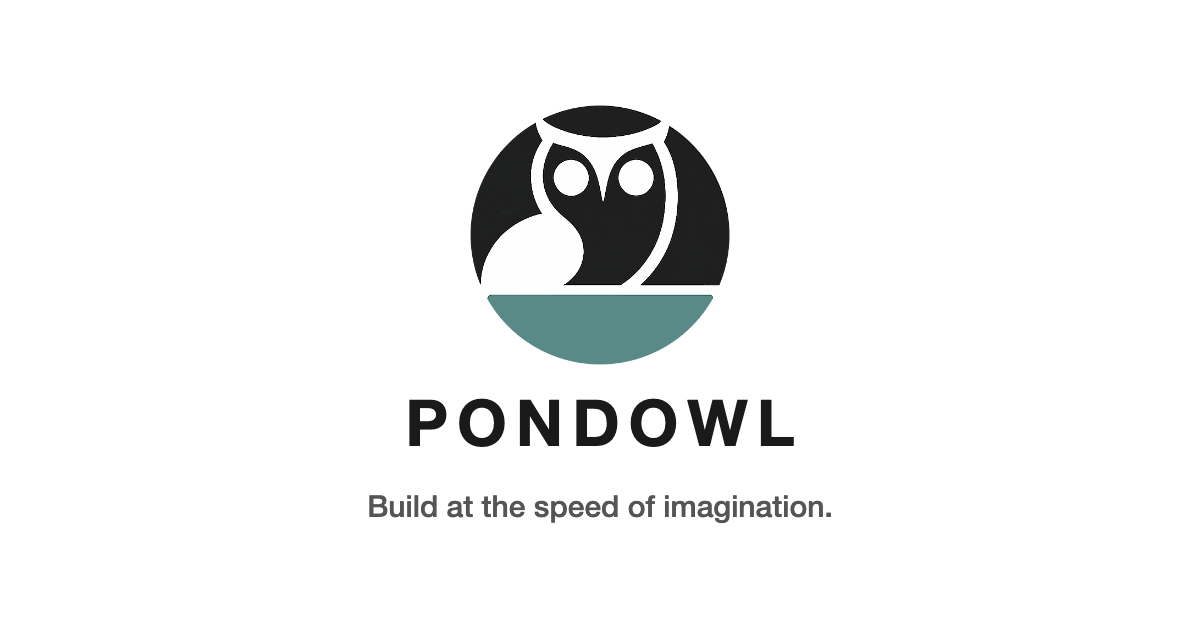
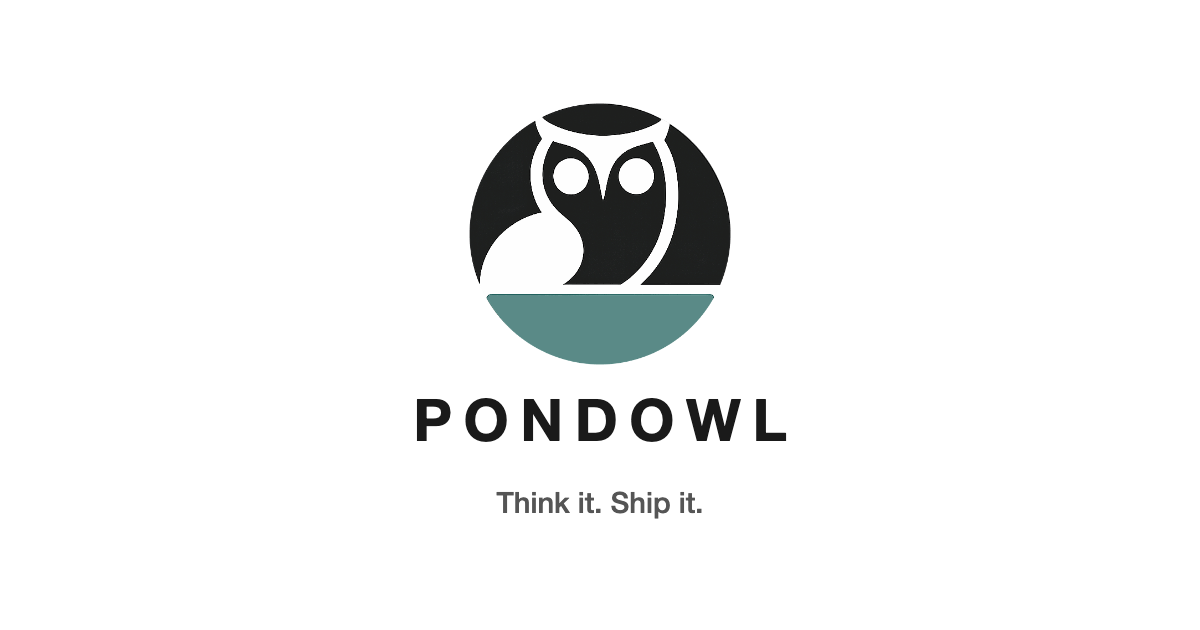
CORP-7 キャッチコピーの刷新とアクセントカラーの追加 (#5)
- ヒーローのミッションを「Think it. Ship it.」と名前の由来の2行に差し替え
- ABOUTの見出し・本文・カードの文言を整理
- OGP画像のキャッチコピーを「Think it. Ship it.」に差し替え
- ロゴの池の色をアクセントカラーとしてキャッチコピー上の線とリンクに適用
- リンクの下線をマウスオーバー時のみ表示
- セクションラベルの効いていないCSS指定を整理

diff --git a/style.css b/style.css
@@ -4,6 +4,8 @@
   --color-text-secondary: #555555;
   --color-text-tertiary: #767676;
   --color-border-tertiary: #e6e4e0;
+  --color-accent: #598a87;
+  --color-accent-strong: #44706d;
   --border-radius-lg: 12px;
 }
 * { box-sizing: border-box; margin: 0; padding: 0; }
@@ -15,18 +17,20 @@ a { color: inherit; }
 .hero { text-align: center; padding: 96px 48px 88px; }
 .hero-logo { width: 240px; height: 240px; margin: 0 auto 20px; display: block; }
 .hero-name { font-size: 52px; font-weight: 600; letter-spacing: 0.14em; line-height: 1.2; margin-bottom: 64px; }
-.hero-label { font-size: 12px; font-weight: 400; color: var(--color-text-secondary); margin-bottom: 8px; letter-spacing: 0.1em; }
-.hero-mission { font-size: 28px; font-weight: 500; color: var(--color-text-primary); margin-bottom: 16px; line-height: 1.4; }
+.hero-meaning { font-size: 18px; color: var(--color-text-secondary); line-height: 1.9; letter-spacing: 0.01em; }
+.hero-meaning::after { content: ""; display: block; width: 32px; height: 2px; background: var(--color-accent); margin: 36px auto; }
+.hero-mission { font-size: 34px; font-weight: 600; color: var(--color-text-primary); letter-spacing: 0.02em; line-height: 1.3; }
 .divider { border: none; border-top: 1px solid var(--color-border-tertiary); margin: 0 48px; }
 .section { padding: 64px 48px; }
-.section-label { font-size: 12px; color: var(--color-text-tertiary); letter-spacing: 0.1em; margin-bottom: 24px; }
+.section-label { font-weight: 500; letter-spacing: 0.1em; margin-bottom: 24px; }
 .section h2 { font-size: 22px; font-weight: 500; margin-bottom: 16px; }
 .section p { font-size: 15px; color: var(--color-text-secondary); line-height: 1.8; }
 .cards { display: grid; grid-template-columns: repeat(3, minmax(0, 1fr)); gap: 16px; margin-top: 32px; }
 .card { background: #f9f8f6; border-radius: var(--border-radius-lg); padding: 24px; }
 .card h3 { font-size: 15px; font-weight: 500; margin-bottom: 8px; }
 .card p { font-size: 13px; color: var(--color-text-secondary); line-height: 1.7; }
-.contact-link { display: inline-block; margin-top: 16px; font-size: 16px; color: var(--color-text-primary); text-decoration: underline; text-underline-offset: 4px; }
+.contact-link { display: inline-block; margin-top: 16px; font-size: 16px; color: var(--color-accent-strong); text-decoration: none; text-underline-offset: 4px; }
+.contact-link:hover { text-decoration: underline; }
 
 /* 下層ページ（プライバシーポリシー・404） */
 .subpage-header { padding: 24px 48px; }
@@ -36,7 +40,8 @@ a { color: inherit; }
 .document h2 { font-size: 17px; font-weight: 500; margin: 40px 0 12px; }
 .document p, .document li { font-size: 15px; color: var(--color-text-secondary); line-height: 1.8; }
 .document ul { padding-left: 1.4em; margin-top: 8px; }
-.document a { text-underline-offset: 3px; overflow-wrap: anywhere; }
+.document a { color: var(--color-accent-strong); text-decoration: none; text-underline-offset: 3px; overflow-wrap: anywhere; }
+.document a:hover { text-decoration: underline; }
 .document p + p, .document p + ul, .document ul + p { margin-top: 12px; }
 .document .document-date { margin-top: 48px; }
 .notfound { text-align: center; padding: 96px 48px 120px; }
@@ -47,14 +52,17 @@ a { color: inherit; }
 /* フッター */
 .footer { border-top: 1px solid var(--color-border-tertiary); margin: 0 48px; padding: 32px 0; text-align: center; }
 .footer-links { list-style: none; margin-bottom: 12px; }
-.footer-links a { font-size: 13px; color: var(--color-text-secondary); text-underline-offset: 3px; }
+.footer-links a { font-size: 13px; color: var(--color-accent-strong); text-decoration: none; text-underline-offset: 3px; }
+.footer-links a:hover { text-decoration: underline; }
 .footer p { font-size: 13px; color: var(--color-text-tertiary); }
 
 @media (max-width: 600px) {
   .hero { padding: 64px 24px 56px; }
   .hero-logo { width: 160px; height: 160px; }
   .hero-name { font-size: 36px; margin-bottom: 48px; }
-  .hero-mission { font-size: 22px; }
+  .hero-meaning { font-size: 16px; }
+  .hero-meaning::after { margin: 28px auto; }
+  .hero-mission { font-size: 26px; }
   .divider { margin: 0 24px; }
   .section { padding: 48px 24px; }
   .cards { grid-template-columns: 1fr; gap: 12px; margin-top: 24px; }

diff --git a/index.html b/index.html
@@ -17,11 +17,11 @@
 <link rel="apple-touch-icon" href="/logo.png">
 <link rel="stylesheet" href="/style.css">
 <link rel="canonical" href="https://pondowl.com/">
-<meta name="description" content="Build at the speed of imagination. PONDOWLは、ウェブ・スマホ・PCアプリを中心にオリジナルサービスの企画・開発・運営を行うチームです。">
+<meta name="description" content="Think it. Ship it. PONDOWLは、ウェブ・スマホ・PCアプリを中心にオリジナルサービスの企画・開発・運営を行うチームです。">
 <meta property="og:type" content="website">
 <meta property="og:url" content="https://pondowl.com/">
 <meta property="og:title" content="PONDOWL">
-<meta property="og:description" content="Build at the speed of imagination. PONDOWLは、ウェブ・スマホ・PCアプリを中心にオリジナルサービスの企画・開発・運営を行うチームです。">
+<meta property="og:description" content="Think it. Ship it. PONDOWLは、ウェブ・スマホ・PCアプリを中心にオリジナルサービスの企画・開発・運営を行うチームです。">
 <meta property="og:site_name" content="PONDOWL">
 <meta property="og:locale" content="ja_JP">
 <meta property="og:image" content="https://pondowl.com/ogp.png">
@@ -37,16 +37,16 @@
 <section class="hero">
   <img class="hero-logo" src="/logo.png" alt="" width="240" height="240">
   <h1 class="hero-name">PONDOWL</h1>
-  <p class="hero-label">MISSION</p>
-  <p class="hero-mission">Build at the speed of imagination.</p>
+  <p class="hero-meaning">A place to gather ideas.<br>A perspective to see beyond.</p>
+  <p class="hero-mission">Think it. Ship it.</p>
 </section>
 
 <hr class="divider">
 
 <section class="section">
   <p class="section-label">ABOUT</p>
-  <h2>アイデアを、すばやくかたちに</h2>
-  <p>PONDOWLは、オリジナルサービスの企画・開発・運営を行うチームです。<br>ウェブ・スマホアプリ・PCアプリを中心に、SNSやゲームなどITサービス全般を手がけます。<br>最新のテクノロジーを活かした開発体制で、アイデアをすばやく、高い品質でプロダクトへと仕上げます。</p>
+  <h2>アイデアを、かたちに</h2>
+  <p>PONDOWLは、オリジナルサービスの企画・開発・運営を行うチームです。<br>最新のテクノロジーを活かした開発体制で、アイデアをすばやく、高い品質でプロダクトへと仕上げます。</p>
 
   <div class="cards">
     <div class="card">
@@ -59,7 +59,7 @@
     </div>
     <div class="card">
       <h3>グローバル展開</h3>
-      <p>SNS・ゲームなど幅広いジャンルで、世界中のユーザーへサービスを提供します。</p>
+      <p>幅広いジャンルで、世界中のユーザーへサービスを提供します。</p>
     </div>
   </div>
 </section>
